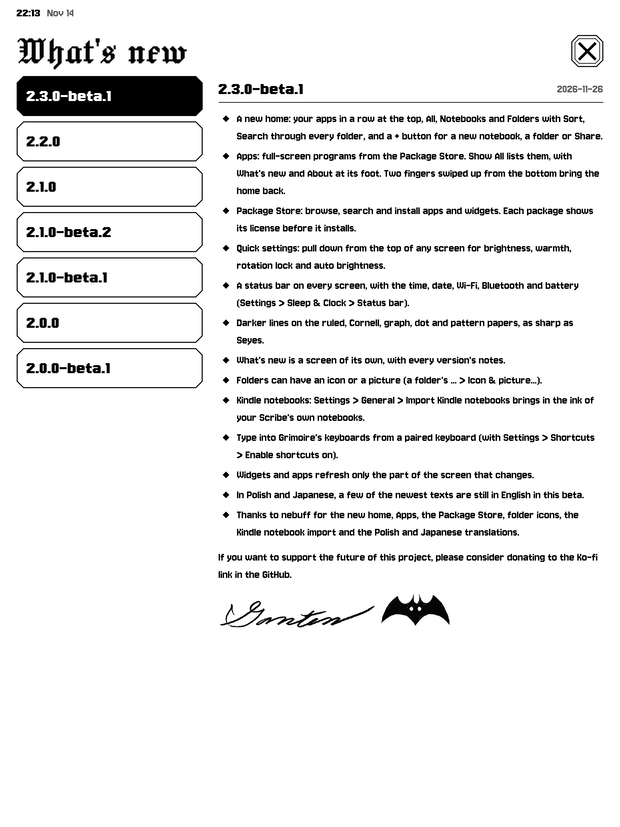
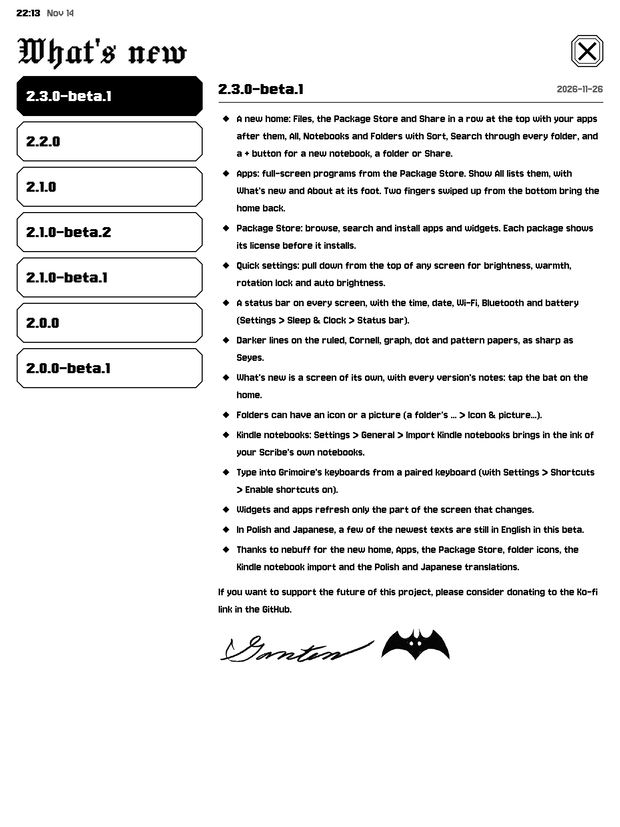
What's new: the 2.3.0-beta.1 note names the row's first three and the bat (#319)
Its first bullet names Files, the Package Store and Share at the head of the row with the apps after them, and its What's new bullet says to tap the bat on the home, in the words of the issue. docs/screens/whatsnew.png is made again from z_about's 01-browser.png as docs/RELEASING.md says. The note still fits the reader on one page: Gothic 43 px at 1.3, upright and sideways (z_about.qs's numbers, unchanged), Classic 43.5 px at 1.18 upright and at 1.17 sideways.

Claude-Session: https://claude.ai/code/session_01Uoe9ZJNyEZYoc4bsjqbSyQ

Changed region(s): [[0.3371, 0.1209, 0.9806, 0.8162]]

diff --git a/docs/whatsnew/2.3.0-beta.1.md b/docs/whatsnew/2.3.0-beta.1.md
@@ -1,12 +1,12 @@
 # What's new (since 2.2.0)
 
-- A new home: your apps in a row at the top, All, Notebooks and Folders with Sort, Search through every folder, and a + button for a new notebook, a folder or Share.
+- A new home: Files, the Package Store and Share in a row at the top with your apps after them, All, Notebooks and Folders with Sort, Search through every folder, and a + button for a new notebook, a folder or Share.
 - Apps: full-screen programs from the Package Store. Show All lists them, with What's new and About at its foot. Two fingers swiped up from the bottom bring the home back.
 - Package Store: browse, search and install apps and widgets. Each package shows its license before it installs.
 - Quick settings: pull down from the top of any screen for brightness, warmth, rotation lock and auto brightness.
 - A status bar on every screen, with the time, date, Wi-Fi, Bluetooth and battery (Settings > Sleep & Clock > Status bar).
 - Darker lines on the ruled, Cornell, graph, dot and pattern papers, as sharp as Seyes.
-- What's new is a screen of its own, with every version's notes.
+- What's new is a screen of its own, with every version's notes: tap the bat on the home.
 - Folders can have an icon or a picture (a folder's ... > Icon & picture...).
 - Kindle notebooks: Settings > General > Import Kindle notebooks brings in the ink of your Scribe's own notebooks.
 - Type into Grimoire's keyboards from a paired keyboard (with Settings > Shortcuts > Enable shortcuts on).
